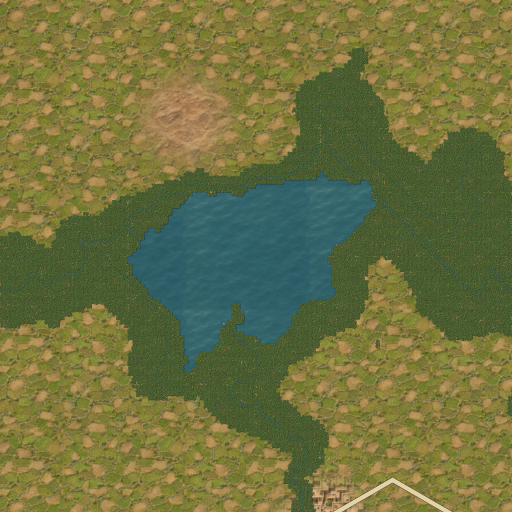
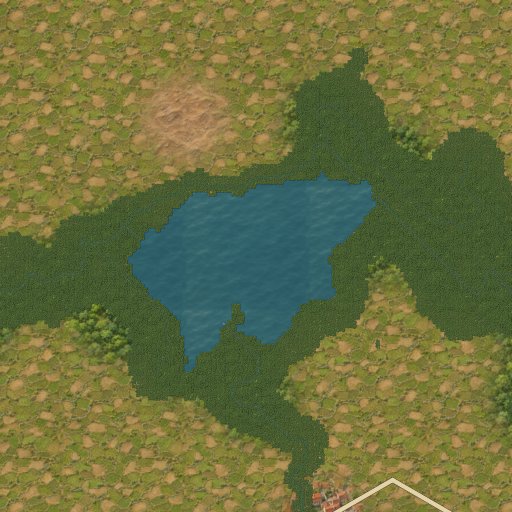
feat(sim): assets-check checks texture bindings against the manifest instead of a fixed count; biome texture sets in sprites.json; Midlands textures bound, Velen tiles rebaked (R-UI-06, R-UI-01)

diff --git a/crates/sim/src/assets_check.rs b/crates/sim/src/assets_check.rs
@@ -22,8 +22,6 @@ const SEAM_MAX_RATIO: f64 = 1.5;
 const UNIT_EDGE_MARGIN_PX: u32 = 1;
 /// Map objects (bridges): same format as unit medallions, top-down.
 const OBJECT_SIZE: u32 = 512;
-/// Packs v1 + v2 + Midlands.
-const EXPECTED_TERRAIN: usize = 17;
 const EXPECTED_UNITS: usize = 37;
 const EXPECTED_OBJECTS: usize = 3;
 /// R-UI-07 illustrations (16:9): briefings and event windows.
@@ -138,6 +136,9 @@ pub struct SpritesFile {
     /// Textures kept for later terrain types or variants.
     #[serde(default)]
     pub unused_terrain_textures: Vec<String>,
+    /// R-UI-01: per procedural biome, terrain id → texture over `terrain`.
+    #[serde(default)]
+    pub biome_terrain: BTreeMap<String, BTreeMap<String, String>>,
     pub units: BTreeMap<String, SpriteClass>,
     pub helicopter_transfer: BTreeMap<String, String>,
     /// Map object role → id in assets/objects.
@@ -288,6 +289,20 @@ pub fn check_sprites(data: &Path, assets: &Path) -> Result<Vec<String>, String> 
     for tex in &sprites.unused_terrain_textures {
         if !assets.join("terrain").join(format!("{tex}.png")).is_file() {
             problems.push(format!("unused terrain texture `{tex}.png` missing"));
+        }
+    }
+    for (biome, set) in &sprites.biome_terrain {
+        for (id, tex) in set {
+            if !terrain.terrain.iter().any(|t| &t.id == id) {
+                problems.push(format!(
+                    "sprites.json biome `{biome}`: terrain `{id}` is not in terrain.json"
+                ));
+            }
+            if !assets.join("terrain").join(format!("{tex}.png")).is_file() {
+                problems.push(format!(
+                    "biome `{biome}`, terrain `{id}`: texture file `{tex}.png` missing"
+                ));
+            }
         }
     }
     for (role, id) in &sprites.map_objects {
@@ -710,11 +725,7 @@ pub fn run(o: &Options) -> Result<(), String> {
     }
 
     let mut problems = Vec::new();
-    if terrain_n != EXPECTED_TERRAIN {
-        problems.push(format!(
-            "manifest: {terrain_n} terrain entries, expected {EXPECTED_TERRAIN}"
-        ));
-    }
+    let _ = terrain_n;
     if unit_n != EXPECTED_UNITS {
         problems.push(format!(
             "manifest: {unit_n} unit entries, expected {EXPECTED_UNITS}"
@@ -732,6 +743,14 @@ pub fn run(o: &Options) -> Result<(), String> {
             .map_err(|e| format!("{}: {e}", sprites_path.display()))?,
     )
     .map_err(|e| format!("sprites.json: {e}"))?;
+    let (texture_problems, warnings) = texture_bindings(
+        &sprites,
+        manifest
+            .iter()
+            .filter(|e| e.group == "terrain")
+            .map(|e| e.id.as_str()),
+    );
+    problems.extend(texture_problems);
     // R-UI-07: reference notes only for unit pictures — in the manifest, or a
     // sprite of a tier (miniature-only models; their files are checked above).
     let tier_sprite = |id: &str| {
@@ -763,22 +782,54 @@ pub fn run(o: &Options) -> Result<(), String> {
         .chain(&minis)
         .filter(|r| r.statuses != [Status::Ok])
         .count();
-    let mut report = render(&rows, &problems, total, game);
+    let mut report = render(&rows, &problems, &warnings, total, game);
     report.push_str(&render_minis(&minis, &fallback));
     if let Some(dir) = o.report.parent() {
         fs::create_dir_all(dir).map_err(|e| e.to_string())?;
     }
     fs::write(&o.report, report).map_err(|e| format!("{}: {e}", o.report.display()))?;
+    for w in &warnings {
+        eprintln!("warning: {w}");
+    }
     eprintln!(
-        "{} files, {bad} with problems, {} other problems; report: {}",
+        "{} files, {bad} with problems, {} other problems, {} warnings; report: {}",
         rows.len() + minis.len(),
         problems.len(),
+        warnings.len(),
         o.report.display()
     );
     if bad > 0 || !problems.is_empty() {
         return Err("asset check failed".into());
     }
     Ok(())
+}
+
+/// R-UI-06: every texture bound to terrain or a biome (or kept for later) must
+/// be a manifest terrain entry (problems); manifest textures bound nowhere are
+/// warnings. The number of textures is not fixed.
+pub fn texture_bindings<'a>(
+    sprites: &SpritesFile,
+    manifest_terrain: impl Iterator<Item = &'a str>,
+) -> (Vec<String>, Vec<String>) {
+    let bound: BTreeSet<&str> = sprites
+        .terrain
+        .values()
+        .chain(sprites.biome_terrain.values().flat_map(|m| m.values()))
+        .chain(&sprites.unused_terrain_textures)
+        .map(String::as_str)
+        .collect();
+    let listed: BTreeSet<&str> = manifest_terrain.collect();
+    let problems = bound
+        .iter()
+        .filter(|t| !listed.contains(*t))
+        .map(|t| format!("terrain texture `{t}` is bound in sprites.json but not in the manifest"))
+        .collect();
+    let warnings = listed
+        .iter()
+        .filter(|t| !bound.contains(*t))
+        .map(|t| format!("manifest texture `{t}` is not bound in sprites.json"))
+        .collect();
+    (problems, warnings)
 }
 
 fn mb(bytes: u64) -> String {
@@ -825,7 +876,7 @@ fn render_minis(rows: &[Row], fallback: &[String]) -> String {
     s
 }
 
-fn render(rows: &[Row], problems: &[String], total: u64, game: u64) -> String {
+fn render(rows: &[Row], problems: &[String], warnings: &[String], total: u64, game: u64) -> String {
     let mut s = String::new();
     let ok = rows.iter().filter(|r| r.statuses == [Status::Ok]).count();
     let _ = writeln!(s, "# Отчёт по ассетам\n");
@@ -846,6 +897,13 @@ fn render(rows: &[Row], problems: &[String], total: u64, game: u64) -> String {
         let _ = writeln!(s, "## Замечания\n");
         for p in problems {
             let _ = writeln!(s, "- {p}");
+        }
+        let _ = writeln!(s);
+    }
+    if !warnings.is_empty() {
+        let _ = writeln!(s, "## Предупреждения (не ошибки)\n");
+        for w in warnings {
+            let _ = writeln!(s, "- {w}");
         }
         let _ = writeln!(s);
     }

diff --git a/crates/sim/tests/sprites.rs b/crates/sim/tests/sprites.rs
@@ -17,3 +17,21 @@ fn sprites_cover_units_and_files_exist() {
     let problems = assets_check::check_sprites(&r.join("data"), &r.join("assets")).unwrap();
     assert!(problems.is_empty(), "{problems:#?}");
 }
+
+/// R-UI-06: a bound texture missing from the manifest is an error; a manifest
+/// texture bound nowhere is only a warning.
+#[test]
+fn r_ui_06_texture_bindings_against_the_manifest() {
+    let sprites: assets_check::SpritesFile = serde_json::from_str(
+        r#"{"sprite_sides": {}, "terrain": {"plain": "t_plain"},
+            "biome_terrain": {"steppe": {"plain": "t_steppe"}},
+            "units": {}, "helicopter_transfer": {}, "map_objects": {}}"#,
+    )
+    .unwrap();
+    let (problems, warnings) =
+        assets_check::texture_bindings(&sprites, ["t_plain", "t_spare"].into_iter());
+    assert_eq!(problems.len(), 1, "{problems:?}");
+    assert!(problems[0].contains("t_steppe"));
+    assert_eq!(warnings.len(), 1, "{warnings:?}");
+    assert!(warnings[0].contains("t_spare"));
+}

diff --git a/crates/mapgen/src/main.rs b/crates/mapgen/src/main.rs
@@ -799,9 +799,16 @@ fn bake_procedural(
         }
     }
     let sprites = read_json(&a.sprites)?;
-    let empty = BTreeMap::new();
-    let overrides = pc.biomes.get(&pd.biome).map_or(&empty, |b| &b.textures);
-    let textures = load_textures(&sprites, &a.assets, Some(overrides))?;
+    // R-UI-01: the biome's texture set (sprites.json `biome_terrain`) over `terrain`.
+    let overrides: BTreeMap<String, String> = sprites["biome_terrain"][&pd.biome]
+        .as_object()
+        .map(|m| {
+            m.iter()
+                .filter_map(|(k, v)| Some((k.clone(), v.as_str()?.to_owned())))
+                .collect()
+        })
+        .unwrap_or_default();
+    let textures = load_textures(&sprites, &a.assets, Some(&overrides))?;
     let (tree, city) = (
         map_object(&sprites, &a.assets, "tree"),
         map_object(&sprites, &a.assets, "city"),

diff --git a/crates/mapgen/src/config.rs b/crates/mapgen/src/config.rs
@@ -237,8 +237,6 @@ pub struct BiomeConfig {
     pub forest_threshold: f64,
     /// Terrains that turn into forest where it grows.
     pub forest_on: Vec<String>,
-    /// Terrain id → texture file in `assets/terrain` (over `sprites.json`).
-    pub textures: BTreeMap<String, String>,
 }
 
 /// `mapgen bake`: the painted map under the hexes (R-UI-01, R-UI-02).

diff --git a/docs/decisions.md b/docs/decisions.md
@@ -4,6 +4,7 @@
 
 | Дата | Правило | Вопрос | Решение |
 | --- | --- | --- | --- |
+| 2026-11-28 | R-UI-06, R-UI-01 | Проверка текстур без константы и привязка текстур «Срединных земель» (решение дизайнера) | `sim assets-check` больше не сверяет число текстур с константой. Каждая текстура из привязок местности (`sprites.json` `terrain`), биомов (`biome_terrain`) и запасных (`unused_terrain_textures`) должна быть в манифесте (группа `terrain`) и на диске — иначе ошибка; текстура манифеста, не привязанная нигде, — предупреждение (раздел «Предупреждения» отчёта), проверку не роняет. Тест `r_ui_06_texture_bindings_against_the_manifest`. Наборы текстур биомов перенесены из `data/mapgen.json` в `sprites.json` `biome_terrain` (поверх `terrain`, рядом с привязкой местности); `mapgen bake` процедурной карты берёт их оттуда. Привязка: лес — `terrain_forest`; умеренный биом — равнина `terrain_farmland`, город `terrain_town_temperate`; степь — равнина `terrain_steppe`, город `terrain_town`; предгорья — холмы `terrain_alpine_meadow`, лес `terrain_forest_pine`, город `terrain_town_temperate`; остальное — общие текстуры. Тайлы «Котла у Велена» перезапечены. |
 | 2026-11-28 | Раздел 17, R-NM-02, R-AI-01, «Синай-67», «Голаны-67» | Итог перебалансировки этапа 4 (решение дизайнера) | Перебалансировка закрыта; флаги, числа и пороги в данных — итоговые для этапа 4. Отчёты: [флаги A/B](reports/2026-11-27-rebalance-flags-ab.md), [step5](reports/2026-11-27-rebalance-step5.md), [step6](reports/2026-11-27-rebalance-step6.md), [step7](reports/2026-11-28-rebalance-step7.md), [step8](reports/2026-11-28-rebalance-step8.md). «Синай-67» — как есть, без вариантов A (9 ходов) и B (цели восточнее); дизайн-вопрос: «Сколько египетских сил Израиль разгромит и отрежет до перемирия и сколько Египет выведет за канал?»; перевалы остаются целями; пороги 11 / 6, решительные 45 / 43 приняты. Критерий раздела 17 «выход к перевалам к ходу 6–8» не выполнен и принят как ограничение ИИ v1 (Эль-Ариш по скрипту — 21% к ходу 3, v1 у перевалов — 0,6% партий); вернуться при ИИ v2 и по итогам игр людей. «Голаны-67»: v1 за Сирию хуже «жадины» по исходу при пороге −20 — принято (зеркальная серия проходит). 16-я бригада у Рафаха (механизированная по hewiki) — в бэклоге сверки перед релизом, данные не меняются. |
 | 2026-11-28 | R-NM-02 («Котёл у Велена», раздел 14) | Что такое «коридор снабжения: есть ли у гарнизона снабжение ≥ 4 в конце» | Поле сценария `supply_vp: [{side, hex, min_supply, vp}]`: сторона получает `vp`, если её снабжение гекса (R-SUP-02, карта снабжения стороны, с бонусом штаба) в `hex` не ниже `min_supply`. «Снабжение гарнизона» = снабжение Мерида в гексе Велена, а не снабжение отдельного юнита: так очки не зависят от того, кто стоит в городе. Отрезанный Велен со своим источником 6 по `source_isolation` даёт не больше 3, поэтому ≥ 4 означает открытый коридор к источнику 10; если Велен у Сальверы, снабжение Мерида там 0. Очки входят в сумму победных очков вместе с целями, NM, выходом и шагами (считаются при каждом подсчёте, решают в конце по дате). Клиент показывает строку условий победы и брифинга (`ui.victory_supply`). ИИ v1 добавляет `vp` своей записи к ценности её гекса (минимальная правка); сам прорыв ведут подсказки сценария `priorities` на гексах шоссе западнее Велена. |
 | 2026-11-28 | R-NM-02, `sim ai-vs-ai` | Как мерить «котёл и деблокада реально случаются» | Для сценариев с `supply_vp` по каждой записи: доля партий, где коридор был открыт хотя бы раз (снабжение стороны в гексе ≥ порога в конце любой фазы после хода 1), доля, где открыт в конце, доля партий, где гекс хотя бы раз был под противником в конце фазы, и медианный ход первой потери (текст отчёта и `supply_corridors` в `--json`). Плюс `vp_margins_by_date` — перевес только в партиях, закончившихся по дате (пороги решают лишь их). |
